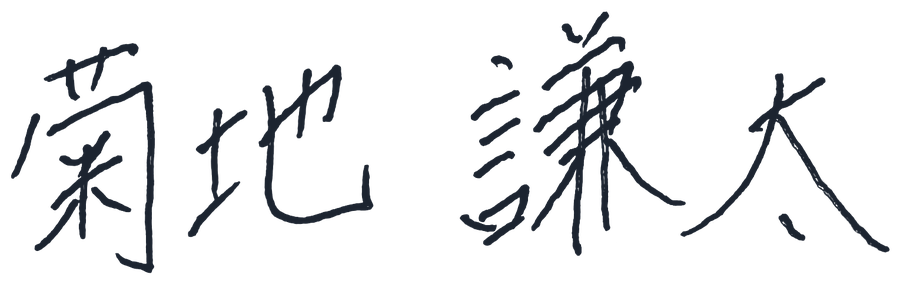
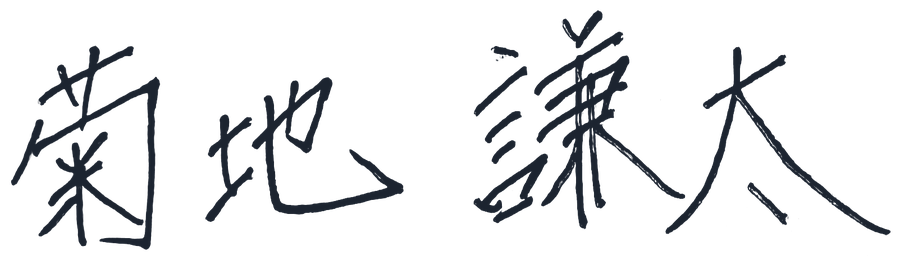
Replace the signature image with the newly supplied one
Claude-Session: https://claude.ai/code/session_01ACicwXpsh3J5NmLsPV9VBN

diff --git a/src/components/sections/MessageSection.tsx b/src/components/sections/MessageSection.tsx
@@ -57,7 +57,7 @@ export default function MessageSection() {
                 src={signatureImage}
                 alt={signatureName}
                 width={900}
-                height={284}
+                height={260}
                 className="h-14 w-auto md:h-16"
               />
             ) : (
